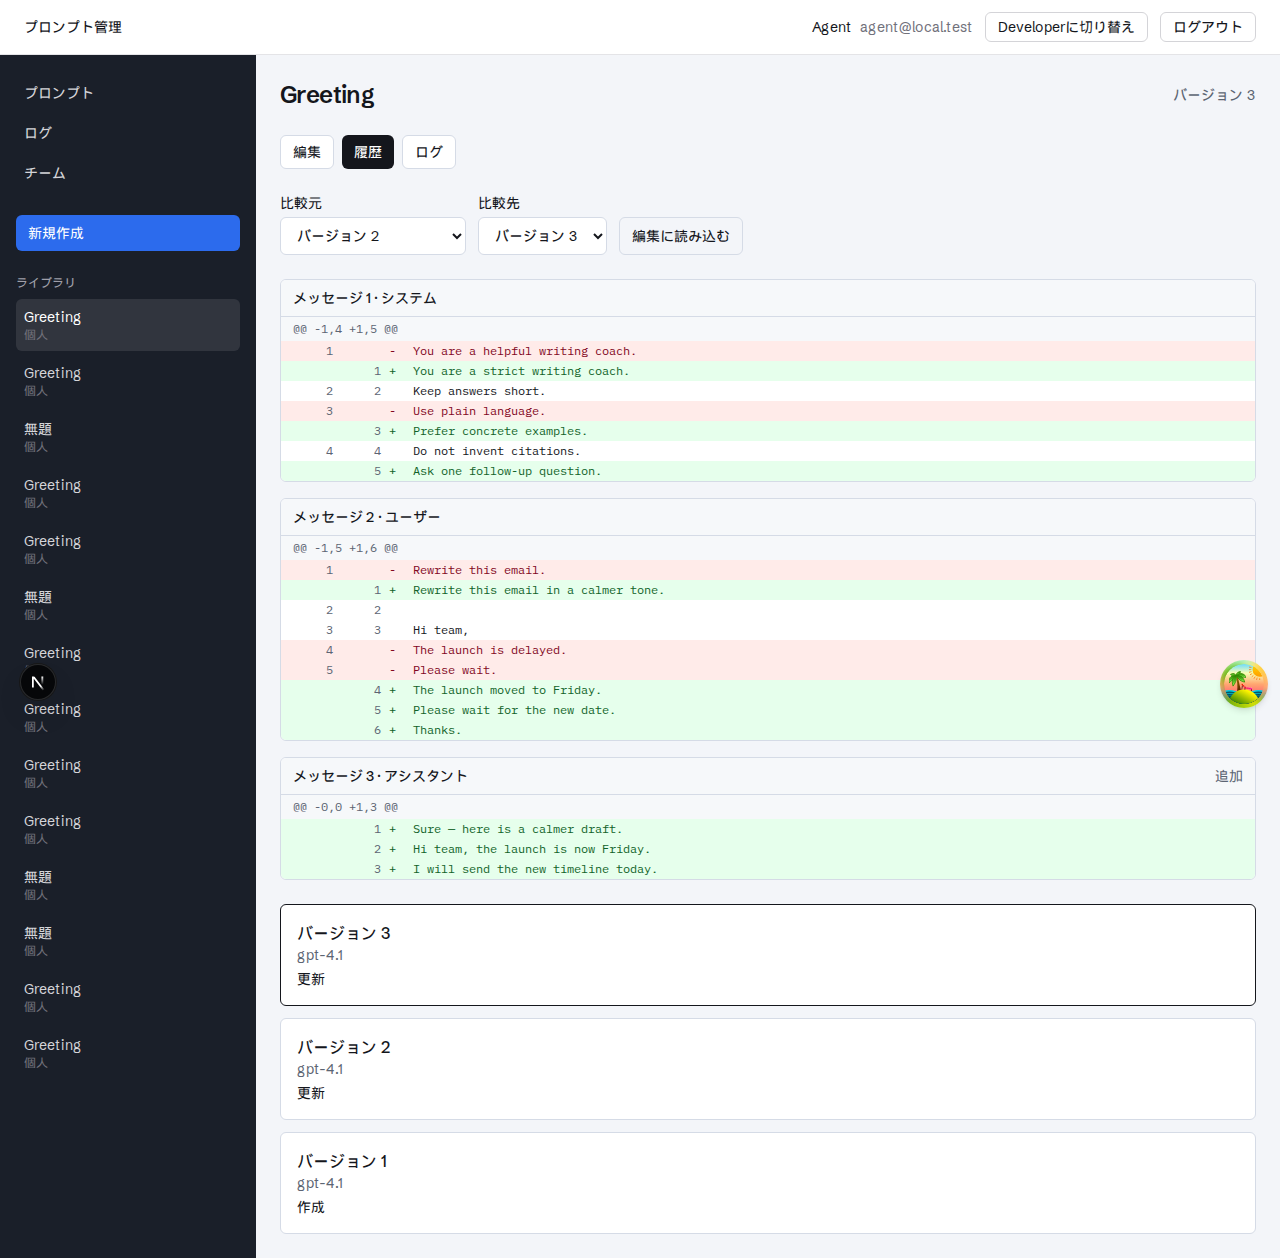
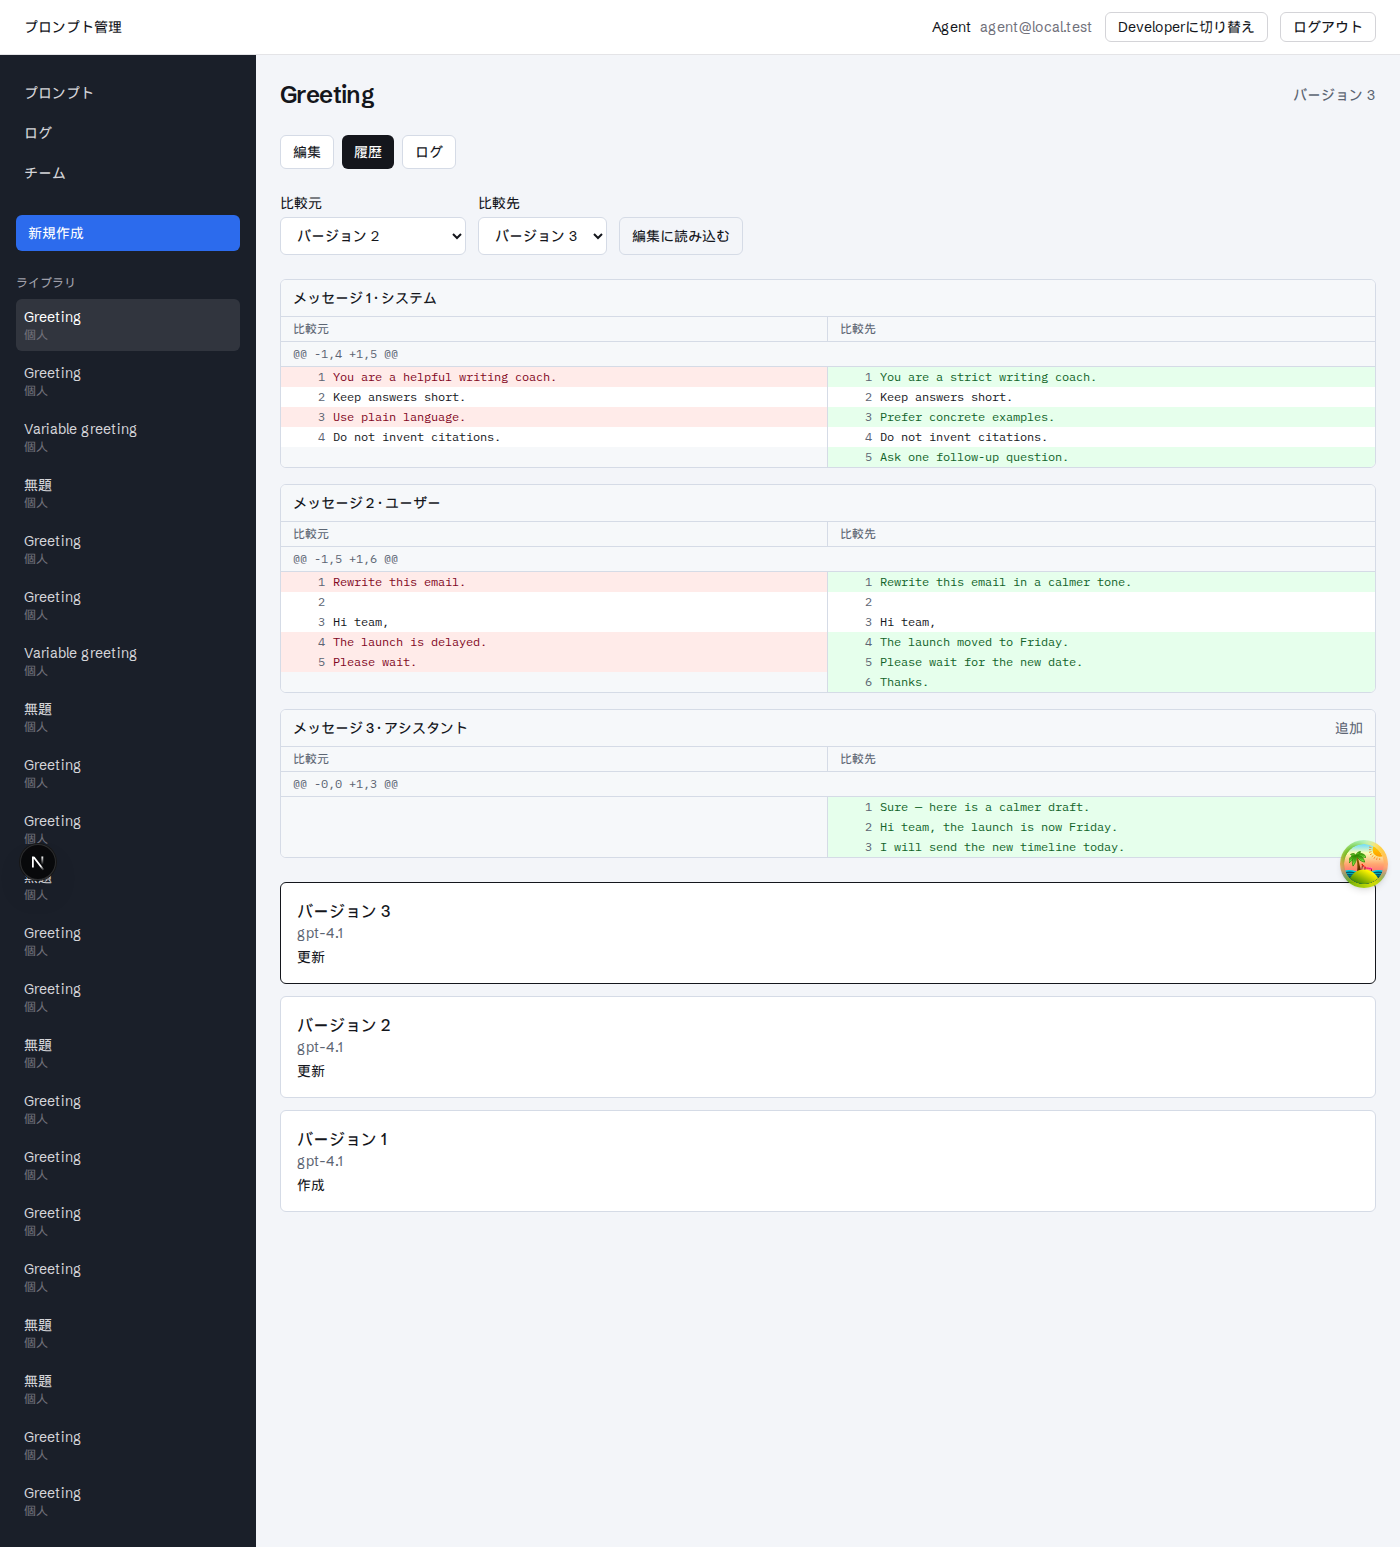
feat(history): show version diffs in a side-by-side split view
Render 比較元 on the left and 比較先 on the right, pairing replacements
on one row like GitHub split, and recapture the History screenshots.

diff --git a/src/components/prompt-diff-view.tsx b/src/components/prompt-diff-view.tsx
@@ -1,4 +1,8 @@
-import { formatHunkHeader } from "@/lib/diff/line-diff";
+import {
+  formatHunkHeader,
+  type SplitCell,
+  toSplitRows,
+} from "@/lib/diff/line-diff";
 import type { MessageDiff, PromptVersionDiff } from "@/lib/diff/prompt-diff";
 import { messageRoleLabel } from "@/lib/i18n/labels";
 import { t } from "@/lib/i18n/t";
@@ -35,7 +39,7 @@ export function VersionMessages({ messages }: { messages: PromptMessage[] }) {
     <ul className="flex flex-col gap-3">
       {messages.map((message, index) => (
         <li
-          key={message.id ?? index}
+          key={message.id ?? `${message.role}-${message.content}`}
           className="rounded-md border border-[var(--line)] bg-white p-4"
         >
           <p className="mb-2 text-sm font-medium">
@@ -71,29 +75,24 @@ function MessageDiffBlock({ message }: { message: MessageDiff }) {
       </header>
       {message.hunks.length > 0 ? (
         <div>
+          <div className="grid grid-cols-2 border-b border-[var(--line)] bg-[#f6f8fa] text-xs text-[var(--muted)]">
+            <p className="border-r border-[var(--line)] px-3 py-1">
+              {t("prompt.compareFrom")}
+            </p>
+            <p className="px-3 py-1">{t("prompt.compareTo")}</p>
+          </div>
           {message.hunks.map((hunk) => (
             <div key={formatHunkHeader(hunk)}>
-              <p className="prompt-mono bg-[#f6f8fa] px-3 py-1 text-xs text-[var(--muted)]">
+              <p className="prompt-mono border-b border-[var(--line)] bg-[#f6f8fa] px-3 py-1 text-xs text-[var(--muted)]">
                 {formatHunkHeader(hunk)}
               </p>
-              {hunk.lines.map((line) => (
+              {toSplitRows(hunk.lines).map((row) => (
                 <div
-                  key={`${line.type}-${line.oldNumber}-${line.newNumber}`}
-                  data-diff-type={line.type}
-                  className={`prompt-mono grid grid-cols-[2.5rem_2.5rem_1rem_minmax(0,1fr)] gap-2 px-3 py-0.5 text-xs ${lineClass(
-                    line.type,
-                  )}`}
+                  key={`${row.left.type}-${row.left.number}-${row.left.text}-${row.right.type}-${row.right.number}-${row.right.text}`}
+                  className="grid grid-cols-2"
                 >
-                  <span className="text-right text-[var(--muted)]">
-                    {line.oldNumber ?? ""}
-                  </span>
-                  <span className="text-right text-[var(--muted)]">
-                    {line.newNumber ?? ""}
-                  </span>
-                  <span>{prefix(line.type)}</span>
-                  <span className="whitespace-pre-wrap break-all">
-                    {line.text}
-                  </span>
+                  <SplitSide cell={row.left} side="left" />
+                  <SplitSide cell={row.right} side="right" />
                 </div>
               ))}
             </div>
@@ -101,6 +100,29 @@ function MessageDiffBlock({ message }: { message: MessageDiff }) {
         </div>
       ) : null}
     </section>
+  );
+}
+
+function SplitSide({
+  cell,
+  side,
+}: {
+  cell: SplitCell;
+  side: "left" | "right";
+}) {
+  return (
+    <div
+      data-diff-side={side}
+      data-diff-type={cell.type === "empty" ? undefined : cell.type}
+      className={`prompt-mono grid grid-cols-[2.25rem_minmax(0,1fr)] gap-2 px-2 py-0.5 text-xs ${
+        side === "left" ? "border-r border-[var(--line)]" : ""
+      } ${sideClass(cell.type)}`}
+    >
+      <span className="text-right text-[var(--muted)]">
+        {cell.number ?? ""}
+      </span>
+      <span className="whitespace-pre-wrap break-all">{cell.text}</span>
+    </div>
   );
 }
 
@@ -116,22 +138,15 @@ function messageHeading(message: MessageDiff): string {
   return role ? messageRoleLabel(role) : "";
 }
 
-function prefix(type: "context" | "add" | "remove"): string {
-  if (type === "add") {
-    return "+";
-  }
-  if (type === "remove") {
-    return "-";
-  }
-  return " ";
-}
-
-function lineClass(type: "context" | "add" | "remove"): string {
+function sideClass(type: SplitCell["type"]): string {
   if (type === "add") {
     return "bg-[#e6ffec] text-[#116329]";
   }
   if (type === "remove") {
     return "bg-[#ffebe9] text-[#82071e]";
+  }
+  if (type === "empty") {
+    return "bg-[#f6f8fa]";
   }
   return "bg-white";
 }

diff --git a/src/lib/diff/line-diff.test.ts b/src/lib/diff/line-diff.test.ts
@@ -1,5 +1,10 @@
 import { describe, expect, it } from "vitest";
-import { diffLines, formatHunkHeader, splitLines } from "./line-diff";
+import {
+  diffLines,
+  formatHunkHeader,
+  splitLines,
+  toSplitRows,
+} from "./line-diff";
 
 describe("splitLines", () => {
   it("treats empty text as no lines", () => {
@@ -67,6 +72,64 @@ describe("diffLines", () => {
     expect(hunks).toHaveLength(2);
     expect(hunks[0]?.lines.some((line) => line.text === "A")).toBe(true);
     expect(hunks[1]?.lines.some((line) => line.text === "I")).toBe(true);
+  });
+});
+
+describe("toSplitRows", () => {
+  it("pairs a replacement onto one left/right row", () => {
+    const [hunk] = diffLines("hello", "world");
+
+    expect(toSplitRows(hunk?.lines ?? [])).toEqual([
+      {
+        left: { type: "remove", text: "hello", number: 1 },
+        right: { type: "add", text: "world", number: 1 },
+      },
+    ]);
+  });
+
+  it("keeps context on both sides", () => {
+    const [hunk] = diffLines("keep\nold\ntail", "keep\nnew\ntail");
+
+    expect(toSplitRows(hunk?.lines ?? [])).toEqual([
+      {
+        left: { type: "context", text: "keep", number: 1 },
+        right: { type: "context", text: "keep", number: 1 },
+      },
+      {
+        left: { type: "remove", text: "old", number: 2 },
+        right: { type: "add", text: "new", number: 2 },
+      },
+      {
+        left: { type: "context", text: "tail", number: 3 },
+        right: { type: "context", text: "tail", number: 3 },
+      },
+    ]);
+  });
+
+  it("leaves the opposite side empty for addition-only lines", () => {
+    const [hunk] = diffLines("", "hello");
+
+    expect(toSplitRows(hunk?.lines ?? [])).toEqual([
+      {
+        left: { type: "empty", text: "", number: null },
+        right: { type: "add", text: "hello", number: 1 },
+      },
+    ]);
+  });
+
+  it("leaves the opposite side empty for deletion-only lines", () => {
+    const [hunk] = diffLines("keep\ngone", "keep");
+
+    expect(toSplitRows(hunk?.lines ?? [])).toEqual([
+      {
+        left: { type: "context", text: "keep", number: 1 },
+        right: { type: "context", text: "keep", number: 1 },
+      },
+      {
+        left: { type: "remove", text: "gone", number: 2 },
+        right: { type: "empty", text: "", number: null },
+      },
+    ]);
   });
 });
 

diff --git a/src/lib/diff/line-diff.ts b/src/lib/diff/line-diff.ts
@@ -15,6 +15,19 @@ export type DiffHunk = {
   lines: DiffLine[];
 };
 
+type SplitCellType = "context" | "add" | "remove" | "empty";
+
+export type SplitCell = {
+  type: SplitCellType;
+  text: string;
+  number: number | null;
+};
+
+export type SplitRow = {
+  left: SplitCell;
+  right: SplitCell;
+};
+
 const CONTEXT = 3;
 
 export function splitLines(text: string): string[] {
@@ -26,6 +39,62 @@ export function splitLines(text: string): string[] {
 
 export function formatHunkHeader(hunk: DiffHunk): string {
   return `@@ -${hunk.oldStart},${hunk.oldLines} +${hunk.newStart},${hunk.newLines} @@`;
+}
+
+export function toSplitRows(lines: DiffLine[]): SplitRow[] {
+  const rows: SplitRow[] = [];
+  let index = 0;
+
+  while (index < lines.length) {
+    const line = lines[index];
+    if (line === undefined) {
+      break;
+    }
+
+    if (line.type === "context") {
+      rows.push({
+        left: { type: "context", text: line.text, number: line.oldNumber },
+        right: { type: "context", text: line.text, number: line.newNumber },
+      });
+      index += 1;
+      continue;
+    }
+
+    const removes: DiffLine[] = [];
+    const adds: DiffLine[] = [];
+    while (index < lines.length && lines[index]?.type === "remove") {
+      const current = lines[index];
+      if (current === undefined) {
+        break;
+      }
+      removes.push(current);
+      index += 1;
+    }
+    while (index < lines.length && lines[index]?.type === "add") {
+      const current = lines[index];
+      if (current === undefined) {
+        break;
+      }
+      adds.push(current);
+      index += 1;
+    }
+
+    const count = Math.max(removes.length, adds.length);
+    for (let pair = 0; pair < count; pair += 1) {
+      const remove = removes[pair];
+      const add = adds[pair];
+      rows.push({
+        left: remove
+          ? { type: "remove", text: remove.text, number: remove.oldNumber }
+          : { type: "empty", text: "", number: null },
+        right: add
+          ? { type: "add", text: add.text, number: add.newNumber }
+          : { type: "empty", text: "", number: null },
+      });
+    }
+  }
+
+  return rows;
 }
 
 export function diffLines(oldText: string, newText: string): DiffHunk[] {

diff --git a/e2e/prompt.spec.ts b/e2e/prompt.spec.ts
@@ -78,6 +78,7 @@ test("compares versions with a colored line diff", async ({ page }) => {
   await page.getByRole("button", { name: "バージョンを保存" }).click();
   await expect(page.getByText("バージョン 3")).toBeVisible();
 
+  await page.setViewportSize({ width: 1400, height: 900 });
   await page.getByRole("button", { name: "履歴" }).click();
   await expect(
     page.getByRole("button", { name: "バージョン 3" }),
@@ -106,6 +107,16 @@ test("compares versions with a colored line diff", async ({ page }) => {
   ).toBeVisible();
   await expect(
     added.filter({ hasText: "Sure — here is a calmer draft." }),
+  ).toBeVisible();
+  await expect(
+    page.locator('[data-diff-side="left"][data-diff-type="remove"]', {
+      hasText: "You are a helpful writing coach.",
+    }),
+  ).toBeVisible();
+  await expect(
+    page.locator('[data-diff-side="right"][data-diff-type="add"]', {
+      hasText: "You are a strict writing coach.",
+    }),
   ).toBeVisible();
   await expect(page.getByText("追加", { exact: true })).toBeVisible();
 
